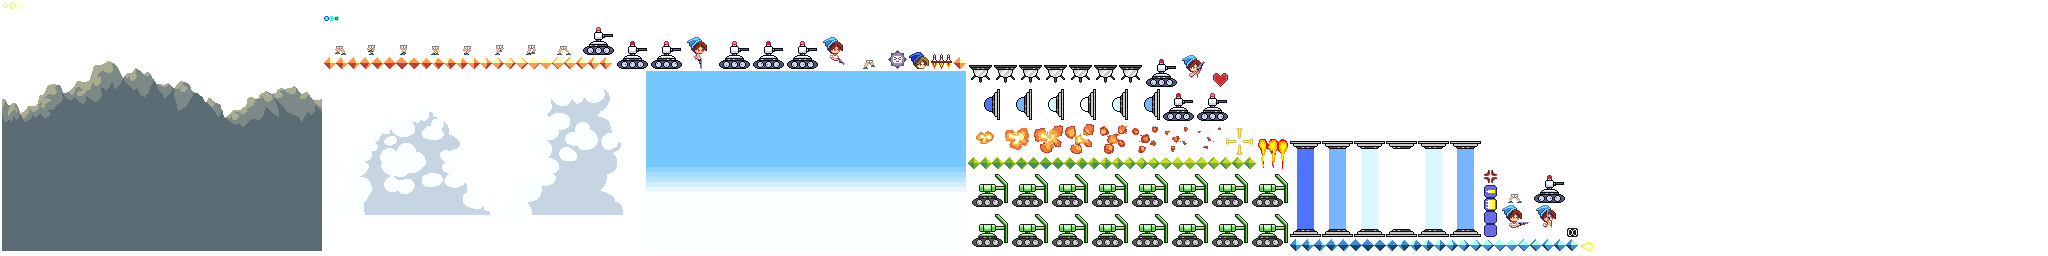
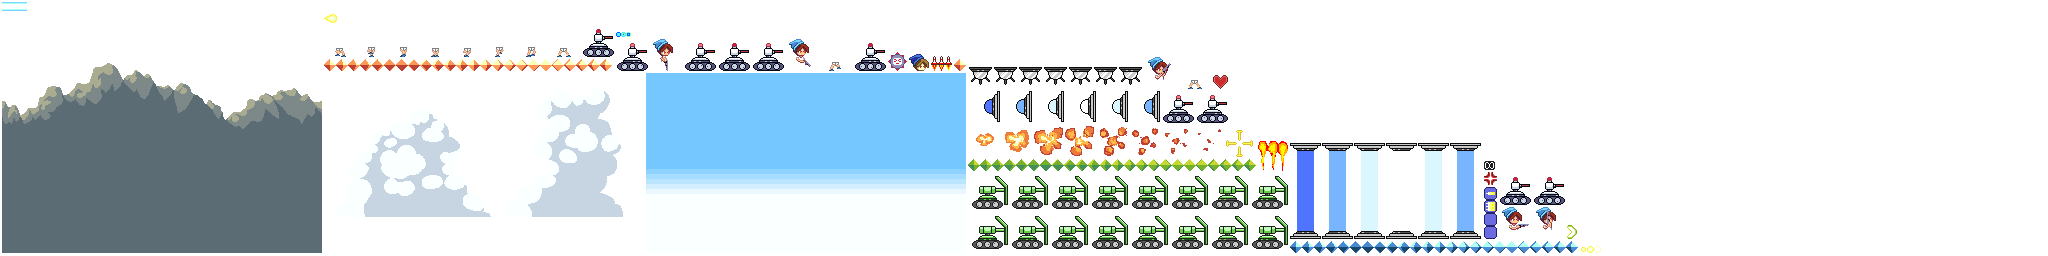
new bullets

diff --git a/app/screen/test_screen.rb b/app/screen/test_screen.rb
@@ -91,6 +91,8 @@ class TestScreen < Screen
       @player.set_gun Gun::Triplet.new add_bullet
     elsif args.inputs.keyboard.key_down.four
       @player.set_gun Gun::Spreader.new add_bullet
+    elsif args.inputs.keyboard.key_down.five
+      @player.set_gun Gun::Beam.new add_bullet
     end
 
     # handle mouse input
@@ -105,11 +107,11 @@ class TestScreen < Screen
         @particles << (Particle.new "explosion", e.x - 5, e.y - 5, 32, 32, 0, 0, 8, 3, true)
         @particles << (Particle.new "explosion", e.x + 5, e.y - 5, 32, 32, 0, 0, 8, 3, true)
         args.audio[:esfx] = { input: "sounds/explode.wav", gain: 0.4, looping: false }
-        ["amber", "amber", "emerald"].each { |n|
+        e.gems.each { |c|
           rad = rand * 2 * PI / 4 + PI / 4
           dx = Math.cos rad
           dy = Math.sin rad
-          @collectables << (Gem.new n, e.x, e.y, dx * 100 / 60, dy * 150 / 60)
+          @collectables << (Gem.new c, e.x, e.y, dx * 100 / 60, dy * 150 / 60)
         }
       end
       e.remove 
@@ -172,7 +174,6 @@ class TestScreen < Screen
       args.outputs.labels << { text: "player dx, dy #{@player.dx.round(2)} #{@player.dy.round(2)}", x: 10, y: args.grid.h - 220, **BLACK }
       args.outputs.labels << { text: "cam x, y #{@cam.x.round(2)}, #{@cam.y.round(2)}", x: 10, y: args.grid.h - 240, **BLACK }
       args.outputs.labels << { text: "entity count #{@collectables.size + @enemies.size + @bullets.size + @particles.size + 2}", x: 10, y: args.grid.h - 260, **BLACK }
-      args.outputs.labels << { text: "player money #{@player.money}", x: 10, y: args.grid.h - 280, **BLACK }
       args.outputs.labels << { text: "DR version #{$gtk.version}", x: 10, y: 25, **BLACK }
     end
   end

diff --git a/app/weapons/gun.rb b/app/weapons/gun.rb
@@ -1,5 +1,5 @@
 class Gun
-  def initialize add_bullet, fire_interval, burst_interval = 0, burst_count = 1, spread: 0, num_bullets: 1, bullet_angle: 0
+  def initialize add_bullet, fire_interval, burst_interval = 0, burst_count = 1, bullet: "pistol", spread: 0, num_bullets: 1, bullet_angle: 0, speed: 500 / 60
     @add_bullet = add_bullet
     @fire_interval = fire_interval
     @burst_interval = burst_interval
@@ -10,6 +10,8 @@ class Gun
     @spread = spread
     @num_bullets = num_bullets
     @bullet_angle = bullet_angle
+    @bullet = bullet
+    @speed = speed
 
     # sanity check
     raise ArgumentError, "fire_interval must be greater than burst_interval * burst_count" if fire_interval <= burst_interval * burst_count
@@ -42,7 +44,6 @@ class Gun
   end
 
   private def create_bullets args, x, y, mx, my, offset
-    speed = 500 / 60
     dx = mx - x
     dy = my - y
     deg = (Math.atan2 dy, dx) * 180 / PI
@@ -58,7 +59,7 @@ class Gun
       dy /= len
       x = x + offset * dx
       y = y + offset * dy - 1
-      @add_bullet.call args, (Bullet.new args, x, y, speed * dx, speed * dy, tdeg)
+      @add_bullet.call args, (Bullet.new args, @bullet, x, y, @speed * dx, @speed * dy, tdeg)
       deg += angle_per_bullet
     }
   end
@@ -84,6 +85,12 @@ end
 
 class Spreader < Gun
   def initialize add_bullet
-    super add_bullet, 30, num_bullets: 5, bullet_angle: 30
+    super add_bullet, 30, num_bullets: 5, bullet_angle: 30, bullet: "wave"
+  end
+end
+
+class Beam < Gun
+  def initialize add_bullet
+    super add_bullet, 1, bullet: "beam", speed: 1000 / 60
   end
 end

diff --git a/app/entity/gem.rb b/app/entity/gem.rb
@@ -40,19 +40,33 @@ class Gem < Entity
     @animation = Animation.new @count, @interval
   end
 
+  def follow player
+    @player = player
+  end
+
   def update walls
-    if @wy == nil
-      @jump_vel = @dy.abs
-    end
-    if @wx != nil
-      @max_speed = -@max_speed
-      @dx = @max_speed
-    end
-    if @wy != nil && @wy.y < @y
-      @max_speed *= 0.6
-      @jump_vel *= 0.6
-      @dx = @max_speed
-      @dy = @jump_vel
+    if @player == nil
+      if @wy == nil
+        @jump_vel = @dy.abs
+      end
+      if @wx != nil
+        @max_speed = -@max_speed
+        @dx = @max_speed
+      end
+      if @wy != nil && @wy.y < @y
+        @max_speed *= 0.6
+        @jump_vel *= 0.6
+        @dx = @max_speed
+        @dy = @jump_vel
+      end
+    else
+      dx = @player.x - @x
+      dy = @player.y - @y
+      len = Math.sqrt dx**2 + dy**2
+      nx = dx / len
+      ny = dy / len
+      @dx = nx * 200 / 60
+      @dy = ny * 200 / 60
     end
 
     check_collision walls, false

diff --git a/app/entity/player.rb b/app/entity/player.rb
@@ -18,6 +18,7 @@ class Player < Entity
     @stagger = false
     @mx = @my = 0
     @money = 0
+    @magnet_range = 35
   end
 
   def set_gun gun
@@ -73,6 +74,9 @@ class Player < Entity
         @money += c.value
         args.audio[:csfx] = { input: "sounds/gem.wav", gain: 0.7, looping: false }
         c.remove = true
+      end
+      if (@x - c.x).abs < @magnet_range && (@y - c.y).abs < @magnet_range
+        c.follow self
       end
     }
 

diff --git a/app/entity/bullet.rb b/app/entity/bullet.rb
@@ -1,6 +1,6 @@
 class Bullet < Entity
 
-  def initialize args, x = 0, y = 0, dx = 0, dy = 0, deg = 0
+  def initialize args, path, x = 0, y = 0, dx = 0, dy = 0, deg = 0
     super()
     @x = x
     @y = y
@@ -9,7 +9,7 @@ class Bullet < Entity
     @render_deg = deg
     @time = 0
     @cw = @ch = 10
-    set_image args, "machinegun"
+    set_image args, path
   end
 
   def update walls

diff --git a/app/entity/spikewheel.rb b/app/entity/spikewheel.rb
@@ -1,6 +1,6 @@
 class SpikeWheel < Entity
 
-  attr_reader :health
+  attr_reader :health, :gems
 
   def initialize x, y
     super()
@@ -11,6 +11,7 @@ class SpikeWheel < Entity
     @dx = -@max_speed
     @left = true
     @health = 5
+    @gems = ["amber", "amber", "emerald"]
   end
 
   def update args, walls, bullets
